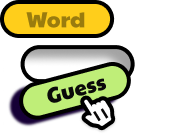
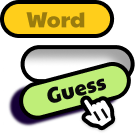
baseline mobile player

diff --git a/src/player/style.scss b/src/player/style.scss
@@ -3,17 +3,20 @@
 main {
   display: flex;
   align-items: center;
+  justify-content: center;
   height: 100%;
   margin: auto 0;
+  gap: 8px;
 }
 
 section {
-  margin: 1rem;
+  // margin: 1rem;
 }
 
 .logo-container {
   display: flex;
-  flex: 1;
+  flex-shrink: 0;
+  margin: 0 16px;
   justify-content: center;
   height: 90%;
 
@@ -24,11 +27,12 @@ section {
 
 .word-bank-container {
   display: flex;
-  flex: 3;
+  flex-shrink: 1;
   flex-direction: column;
   align-items: center;
   gap: 1rem;
   height: 90vh;
+  max-width: 450px;
 
   h2 {
     font-family: "Paytone One", serif;
@@ -43,10 +47,11 @@ section {
   flex: 1;
   flex-wrap: wrap;
   align-content: flex-start;
+  justify-content: center;
   gap: 2rem;
 
   width: 100%;
-  max-width: 90%;
+  // max-width: 90%;
   max-height: 80vh;
 
   padding: 3rem 2rem;
@@ -63,10 +68,25 @@ section {
   }
 }
 
+#greeting-dialog {
+  padding: 16px 24px;
+
+}
+
+.main-content {
+  display: flex;
+  align-items: start;
+  // width: 100%;
+  gap: 24px;
+  max-height: 100vh;
+  max-width: 100vw;
+  padding-right: 24px;
+}
+
 .passage {
-  flex: 3;
+  // flex: 3;
   height: 90vh;
-  padding: 3rem 5rem;
+  padding: 1rem 3rem;
 
   overflow: scroll;
 
@@ -79,6 +99,8 @@ section {
   background-color: white;
   border-radius: 14px;
   box-shadow: 8px 9px 4px rgba(88, 42, 158, 0.67);
+
+  max-width: 700px;
 
   h2 {
     font-family: "Paytone One", serif;
@@ -108,6 +130,8 @@ section {
   background-color: #ffce1b;
   border-radius: 15px;
   box-shadow: 2px 4px 2px #2c59ae76;
+
+  white-space: nowrap;
 
   &:hover {
     scale: 1.05;
@@ -261,6 +285,8 @@ section {
     width: fit-content;
     padding: 4px 16px 0;
 
+    cursor: pointer;
+
     overflow: hidden;
 
     font-family: "Paytone One", serif;
@@ -289,7 +315,6 @@ section {
 
 #keyboard-controls {
   height: fit-content;
-  height: 462px;
 }
 
 #pointer-controls {
@@ -371,4 +396,108 @@ section {
   }
 
   max-width: 25rem;
+}
+
+@media (width <= 900px) {
+  .main-content {
+    flex-direction: column;
+    max-width: 100vw;
+    padding-right: 0;
+  }
+
+  .word-bank-container {
+    flex-direction: row;
+    height: auto;
+    height: fit-content;
+    h2 {
+      display: none;
+    }
+    max-width: 100%;
+    padding: 8px 8px 0 8px;
+  }
+
+  .word-bank {
+    display: grid;
+    grid-template-rows: 1fr 1fr;
+    grid-template-columns: none;
+    grid-auto-columns: 1fr;
+    grid-auto-flow: column;
+    
+    height: fit-content;
+    overflow-x: scroll;
+    overflow-y: hidden;
+    flex-wrap: nowrap;
+    justify-content: start;
+    align-items: center;
+    max-width: 100%;
+    flex-grow: 1;
+    padding: 4px 8px;
+    gap: 0.5rem;
+  }
+
+  .word-pill {
+    font-size: 1rem;
+  }
+
+  .word-pill-home:empty {
+    height: 1.6rem;
+  }
+
+  .dialog-box {
+    padding: 1rem 1.5rem;
+  }
+
+  .word-pill-home,
+  .word-pill-container {
+    min-height: 1.6rem;
+    line-height: 1;
+    border-radius: 15px;
+
+    &.highlight {
+      outline: 3px solid #7538d3;
+    }
+  }
+  
+  .word-pill-container:empty {
+    width: 6rem;
+  }
+
+  .logo-container {
+    display: none;
+  }
+
+  .passage {
+    max-width: none;
+    border-radius: 14px 14px 0 0;
+    margin: 0 8px 0px 8px;
+    position: relative;
+
+    padding: 1rem 2rem;
+    padding-top: 0;
+
+    h2 {
+      font-size: 1.5rem;
+      line-height: 1.5rem;
+      padding: 30px 0 12px 0;
+      position: sticky;
+      top: 0px;
+      z-index: 100;
+      background: white;
+    }
+  }
+
+  #passage {
+    font-size: 16px;
+  }
+
+  #submit-button {
+    font-size: 0px;
+    padding: 5px 20px;
+    height: 100%;
+    box-sizing: border-box;
+    &:after {
+      content: ">";
+      font-size: 14px;
+    }
+  }
 }

diff --git a/src/player/index.html b/src/player/index.html
@@ -27,22 +27,24 @@
         <img src="/assets/Icon.png" alt="Game logo" class="logo" />
       </div>
 
-      <section class="word-bank-container">
-        <h2>Word Bank</h2>
+      <div class="main-content">
+        <section class="word-bank-container">
+          <h2>Word Bank</h2>
 
-        <div class="word-bank" id="word-bank"></div>
-        <button id="submit-button" class="action-btn">Submit</button>
-      </section>
+          <div class="word-bank" id="word-bank"></div>
+          <button id="submit-button" class="action-btn">Submit</button>
+        </section>
 
-      <section class="passage">
-        <h2 id="title"></h2>
+        <section class="passage">
+          <h2 id="title"></h2>
 
-        <div id="passage"></div>
-      </section>
+          <div id="passage"></div>
+        </section>
+      </div>
 
       <dialog id="greeting-dialog">
-        <div class="dialog-shell">
-          <div class="dialog-box">
+        <!-- <div class="dialog-shell">
+          <div class="dialog-box"> -->
             <div class="dialog-content">
               <div class="dialog-left">
                 <img src="/assets/IconBig.png" alt="" />
@@ -184,8 +186,8 @@
                 </div>
               </div>
             </div>
-          </div>
-        </div>
+          <!-- </div>
+        </div> -->
       </dialog>
 
       <dialog id="warning-dialog">

diff --git a/src/shared/dialog.scss b/src/shared/dialog.scss
@@ -1,5 +1,7 @@
 dialog {
   z-index: 9999;
+  width: fit-content;
+  max-width: min(92vw, 900px);
 
   &::backdrop {
     background-color: rgba(0, 0, 0, 0.5);
@@ -149,4 +151,27 @@ dialog {
   text-align: center;
   color: #2e0073;
   font-weight: bold;
+}
+
+@media (width <= 900px) {
+  .dialog-content {
+    display: flex;
+    flex-direction: column;
+  }
+
+  .dialog-left {
+    min-height: 160px;
+    height: fit-content;
+
+    img {
+      width: 160px;
+      height: 160px;
+    }
+  }
+
+  .dialog-right {
+    h2 {
+      white-space: normal;
+    }
+  }
 }

diff --git a/src/creator/index.js b/src/creator/index.js
@@ -512,6 +512,7 @@ class App {
     this.el.textarea.style.display = "none";
     this.el.pickarea.style.display = "flex";
     this.el.slideToggle.classList.add("slid");
+    this.el.outer.classList.remove("new")
   }
 
   switchToWriteMode() {
@@ -536,8 +537,6 @@ class App {
 
     this.el.slider.setAttribute("min", this.minWordsBetween())
     this.el.slider.setAttribute("max", this.maxWordsBetween())
-
-    this.el.outer.classList.remove("new")
   }
 
   renderManualProgress() {

diff --git a/src/shared/reset.scss b/src/shared/reset.scss
@@ -68,9 +68,10 @@ svg {
 ::-webkit-scrollbar {
   -webkit-appearance: none;
   width: 6px;
+  height: 4px;
 }
 ::-webkit-scrollbar-thumb {
   border-radius: 4px;
-  background-color: rgba(172, 172, 172, 0.5);
+  background-color: #2f0076;
   box-shadow: 0 0 1px rgba(255, 255, 255, 0.5);
 }